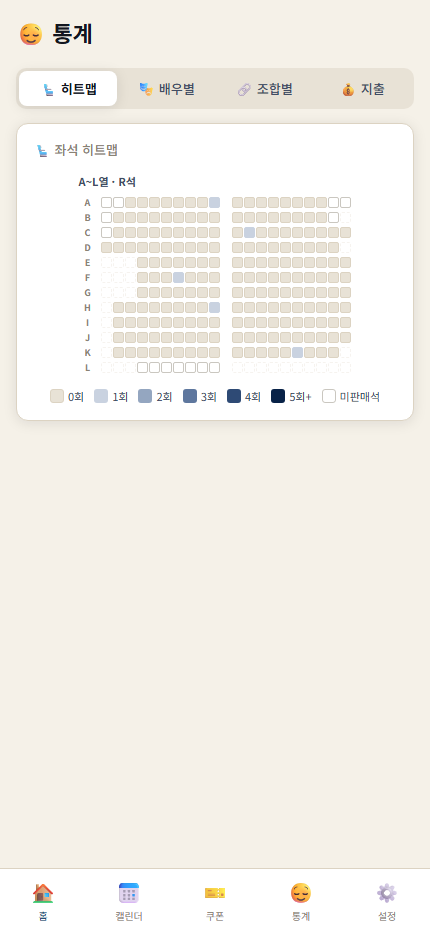
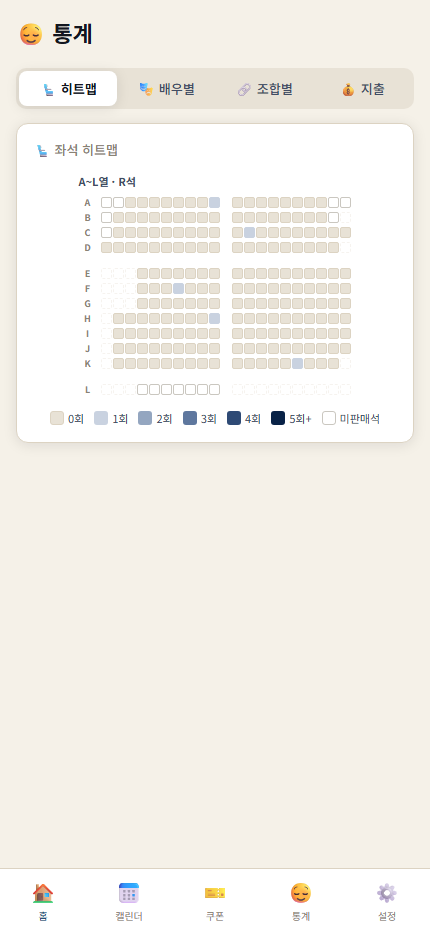
좌석도 행 간격·배역 칩 정렬·쿠폰 현황 접기
- 좌석도: 공식 좌석도는 D 다음과 K 다음에 한 줄이 비어 있다.
  SEAT_PLAN.gapAfter 를 ['D','K'] 로 두고 히트맵·미니 좌석도가 같이 쓴다.
  (히트맵에는 간격 처리가 아예 없었고, 미니 좌석도는 단일 값만 받았다)

- 캘린더 배역 칩: 라벨 폭이 min-width:44px 라 '파트로클로스'(6자)가
  넘쳐 '전체' 시작 위치가 배역마다 어긋났다. 가장 긴 배역명 기준으로
  폭을 고정해 작품이 바뀌어도 맞도록 했다.

- 쿠폰 현황: 기본 접힘. 펼치면 "MANIA CARD 혜택은 전부 실물 굿즈라
  쿠폰으로 관리할 것이 없고, 쿠폰팩이 배포되면 추가할 수 있다"고 안내한다.
  COUPON_ITEMS 가 채워지면 펼친 상태로 시작한다.

셀프테스트 3건 추가 (41/41). 3사이클 전부 통과.

Changed region(s): [[0.0302, 0.2489, 0.9674, 0.4667]]

diff --git a/index.html b/index.html
@@ -177,6 +177,7 @@
   .heatmap-legend{display:flex;gap:10px;justify-content:center;margin-top:10px;flex-wrap:wrap;}
   .hm-floor-label{font-size:11px;font-weight:700;color:var(--text2);padding:2px 0 5px;}
   .hm-floor-gap{height:14px;}
+  .hm-row-gap{height:9px;}
   .stats-subtabs{display:flex;gap:0;margin-bottom:14px;background:var(--bg3);border-radius:10px;padding:3px;}
   .stats-subtab{flex:1;padding:8px 4px;border-radius:8px;border:none;background:none;color:var(--text2);font-size:13px;font-weight:500;cursor:pointer;transition:all 0.2s;font-family:inherit;}
   .stats-subtab.active{background:var(--bg2);color:var(--text1);font-weight:700;box-shadow:var(--shadow);}
@@ -373,8 +374,13 @@
     <button class="btn btn-outline btn-sm" onclick="openAddStampBoard()">+ 도장판</button>
   </div>
   <div class="card" style="margin-bottom:16px;">
-    <div class="card-title">쿠폰 현황</div>
-    <div id="coupon-list"></div>
+    <div class="card-title" onclick="toggleCouponSection()" style="cursor:pointer;display:flex;align-items:center;justify-content:space-between;margin-bottom:0;">
+      <span>🎟 쿠폰 현황</span>
+      <span id="coupon-toggle-icon" style="font-size:11px;color:var(--text3);">▼</span>
+    </div>
+    <div id="coupon-wrap" style="display:none;">
+      <div id="coupon-list" style="margin-top:10px;"></div>
+    </div>
   </div>
   <div class="section-title" style="margin-bottom:8px;">MANIA CARD (재관람 카드)</div>
   <div id="stamp-boards-list" style="margin-bottom:16px;"></div>
@@ -1219,7 +1225,7 @@ function saveStampBoards(s) { DB.set('stamp_boards', s); }
 const SEAT_PLAN = {
   '1층': {
     rows: ['A','B','C','D','E','F','G','H','I','J','K','L'],
-    gapAfter: null,
+    gapAfter: ['D', 'K'],   // 공식 좌석도의 행 간격 (D 다음, K 다음)
     def: {
       A: { l:[1,10], m:null, r:[11,20] },
       B: { l:[1,10], m:null, r:[11,19] },
@@ -2019,7 +2025,7 @@ function buildMiniSeat(floor, rowKey, num) {
   let html = '<div style="overflow-x:auto;margin:8px 0;"><div style="display:flex;flex-direction:column;gap:2px;width:max-content;margin:0 auto;">';
   let prevRow = null;
   plan.rows.forEach(r => {
-    if (plan.gapAfter && prevRow === plan.gapAfter) html += '<div style="height:3px;"></div>';
+    if (prevRow && (plan.gapAfter || []).includes(prevRow)) html += '<div style="height:7px;"></div>';
     prevRow = r;
     const cfg = plan.def[r];
     if (!cfg) return;
@@ -2461,6 +2467,13 @@ function selectCalRole(role, btn) {
 }
 
 // 열린 배역들의 배우 칩 렌더 (배역별 row)
+// 배역명 길이가 제각각이라 라벨 폭을 고정해야 칩('전체')의 시작 위치가 맞는다.
+// 한글은 대체로 1em 폭이라 가장 긴 배역명의 글자 수를 그대로 em 으로 쓴다.
+function roleLabelWidth() {
+  const n = Math.max(...ROLES.map(r => r.label.length));
+  return `calc(${n}em + 2px)`;
+}
+
 function renderAllActorChips() {
   const container = document.getElementById('cal-actor-chips');
   if (!container) return;
@@ -2480,7 +2493,7 @@ function renderAllActorChips() {
           `<button class="cal-chip${cur===a?' active':''}" onclick="setCalFilterFromTab('${roleData.key}','${a}')">${a}</button>`
         ).join('');
       return `<div style="display:flex;align-items:center;gap:6px;flex-wrap:wrap;margin-bottom:8px;padding-bottom:8px;border-bottom:1px solid var(--border);">
-        <span style="font-size:11px;color:var(--accent);font-weight:700;min-width:44px;flex-shrink:0;">${roleData.label}</span>
+        <span style="font-size:11px;color:var(--accent);font-weight:700;width:${roleLabelWidth()};flex-shrink:0;">${roleData.label}</span>
         <div style="display:flex;gap:5px;flex-wrap:wrap;">${chips}</div>
       </div>`;
     }).join('');
@@ -2881,9 +2894,13 @@ function renderHeatmap() {
     const grade = 'R석';   // 전석 단일 등급
     let html = `<div class="hm-floor-label">${first}~${last}열 · ${grade}</div>`;   // 단층이라 층 이름 생략
 
+    let prevRow = null;
     plan.rows.forEach(rowKey => {
       const cfg = plan.def[rowKey];
       if (!cfg) return;
+      // 공식 좌석도와 같은 자리에 한 줄을 비운다 (미니 좌석도와 같은 gapAfter 를 쓴다)
+      if (prevRow && (plan.gapAfter || []).includes(prevRow)) html += '<div class="hm-row-gap"></div>';
+      prevRow = rowKey;
       html += `<div class="hm-row"><div class="hm-label">${rowKey}</div><div style="width:${4 + lead}px;flex-shrink:0;"></div>`;
       // 좌 구역: 모든 열이 통로 쪽에서 끝나므로 오른쪽 끝 정렬 (···●)
       html += mkZone(rowKey, cfg.l, MAX.l, true);
@@ -2907,8 +2924,24 @@ function renderHeatmap() {
 // ============================================================
 function renderCoupon() { renderStampBoards(); renderCouponList(); }
 
+function toggleCouponSection() {
+  const wrap = document.getElementById('coupon-wrap');
+  const icon = document.getElementById('coupon-toggle-icon');
+  if (!wrap) return;
+  const willOpen = wrap.style.display === 'none';
+  wrap.style.display = willOpen ? '' : 'none';
+  if (icon) icon.textContent = willOpen ? '▲' : '▼';
+  DB.set('couponSectionCollapsed', !willOpen);
+}
+
 function renderCouponList() {
   const coupons = getCoupons();
+  // 쿠폰이 없는 작품이라 기본은 접어둔다. 쿠폰팩이 생기면 펼친 상태로 시작한다.
+  const collapsed = DB.get('couponSectionCollapsed', COUPON_ITEMS.length === 0);
+  const cw = document.getElementById('coupon-wrap');
+  const ci = document.getElementById('coupon-toggle-icon');
+  if (cw) cw.style.display = collapsed ? 'none' : '';
+  if (ci) ci.textContent   = collapsed ? '▼' : '▲';
   const boards  = getStampBoards();
   const records = watchedOnly(getRecords());   // 양도 제외
   const today   = localDate();
@@ -2950,9 +2983,10 @@ function renderCouponList() {
 
   document.getElementById('coupon-list').innerHTML = COUPON_ITEMS.length
     ? `<div class="coupon-cards">${mainItems.map(couponCardHtml).join('')}</div>${dsRow}`
-    : `<div style="font-size:12px;color:var(--text3);text-align:center;padding:16px 8px;line-height:1.7;">
-         뮤지컬 〈FATED〉 는 실물 할인권·쿠폰이 없습니다.<br>
-         재관람 혜택은 아래 <b>MANIA CARD</b> 도장판으로 관리합니다.
+    : `<div style="font-size:12px;color:var(--text3);padding:6px 4px 10px;line-height:1.8;">
+         <b>MANIA CARD</b> 로 받는 혜택(포토카드·폴라로이드·실황 OST)은 모두 실물 굿즈라
+         쿠폰으로 관리할 것이 없습니다.<br>
+         제작사가 <b>쿠폰팩(할인권 등)</b>을 배포하면 여기에 추가할 수 있습니다.
        </div>`;
 
 }

diff --git a/selftest.html b/selftest.html
@@ -350,6 +350,37 @@ t('C. 할인', 'C2 — 차액 지불 체크가 기록에 남음', () => {
   eq(recs[0].paidDiff, true, 'paidDiff 기록 — 증빙 미지참 시 정가 대비 차액');
 });
 
+t('C. 할인', '쿠폰 현황은 접혀 있고, 펼치면 사유가 보인다', () => {
+  reset();
+  W.renderCouponList();
+  const wrap = W.document.getElementById('coupon-wrap');
+  const icon = W.document.getElementById('coupon-toggle-icon');
+  ok(wrap, '#coupon-wrap 없음');
+  eq(wrap.style.display, 'none', '쿠폰이 없는 작품이므로 기본은 접힘');
+  eq(icon.textContent, '▼');
+
+  const html = W.document.getElementById('coupon-list').innerHTML;
+  ok(/MANIA CARD/.test(html), '왜 비어 있는지 설명해야 함');
+  ok(/쿠폰팩/.test(html), '쿠폰팩 배포 가능성을 안내해야 함');
+  ok(!/할인권·쿠폰이 없습니다/.test(html), '옛 문구 잔존');
+
+  W.toggleCouponSection();
+  eq(wrap.style.display, '', '펼쳐져야 함');
+  eq(icon.textContent, '▲');
+  W.toggleCouponSection();
+  eq(wrap.style.display, 'none', '다시 접혀야 함');
+});
+
+t('U. 좌석', '공식 좌석도와 같은 자리에서 행이 끊긴다 (D·K 다음)', () => {
+  eq(g('SEAT_PLAN')['1층'].gapAfter, ['D', 'K'], '공식 좌석도의 행 간격');
+});
+
+t('E. 개조 정합성', '배역 라벨 폭이 가장 긴 배역명에 맞춰져 있다', () => {
+  const longest = Math.max(...g('ROLES').map(r => r.label.length));
+  eq(W.roleLabelWidth(), `calc(${longest}em + 2px)`, "'전체' 칩 시작 위치가 어긋나면 안 됨");
+  eq(longest, 6, '파트로클로스가 가장 길다');
+});
+
 // ── D. 데이터 ─────────────────────────────────────────
 t('D. 데이터', '스케줄 25회차 로드 (1차 오픈분)', () => {
   const s = W.getSchedule();

diff --git a/_shots.html b/_shots.html
@@ -99,7 +99,13 @@ frame.addEventListener('load', () => {
     if (btn) W.switchTab(TAB, btn);
 
     // 캘린더는 11월을 보여주고, 2회 공연인 날짜를 펼쳐 둔다
-    if (TAB === 'calendar') { W.initCal(); W.renderCalendar(); W.calDayClick('2026-11-07'); }
+    if (TAB === 'calendar') {
+      W.initCal(); W.renderCalendar(); W.calDayClick('2026-11-07');
+      // ?roles=open — 배역 필터를 펼친 상태로 찍는다 (칩 정렬 확인용)
+      if (Q.get('roles') === 'open') {
+        W.document.querySelectorAll('#cal-role-tabs .cal-role-tab').forEach(b => W.selectCalRole(b.dataset.role, b));
+      }
+    }
     if (TAB === 'stats')    W.switchStatTab('heatmap', W.document.querySelector('.stats-subtab'));
 
     document.title = 'SHOT ' + TAB;
